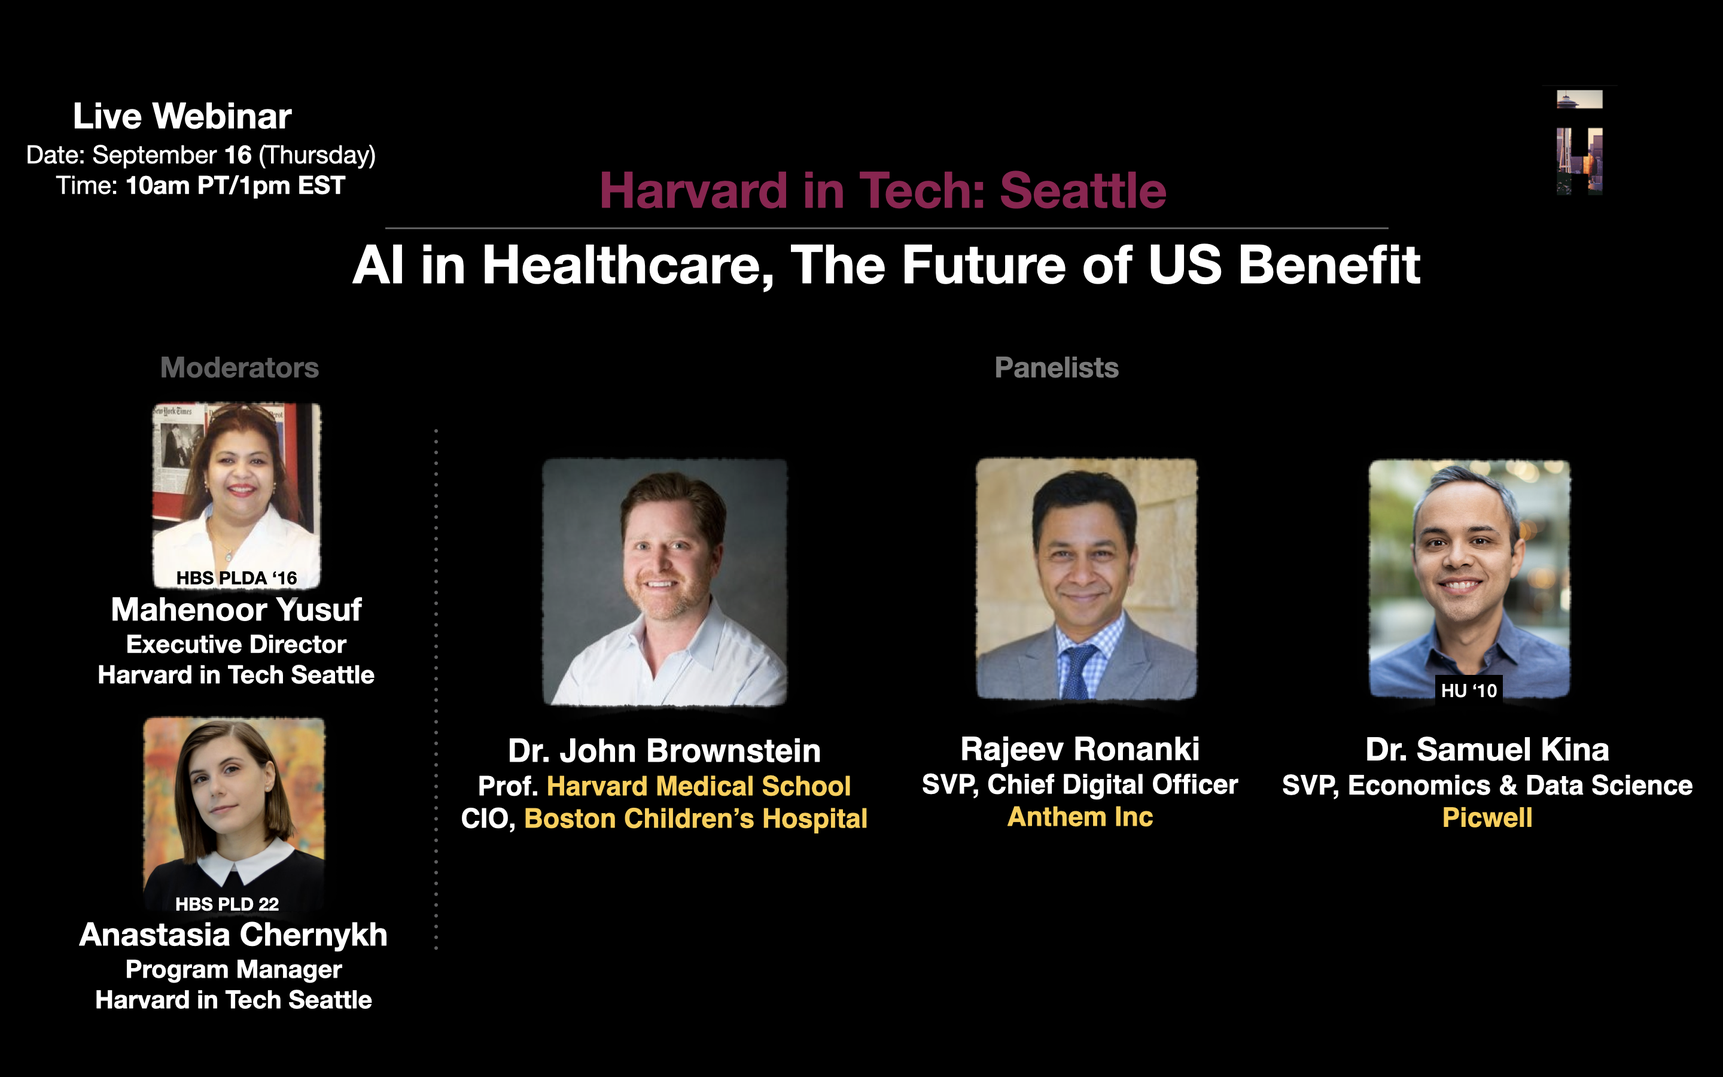
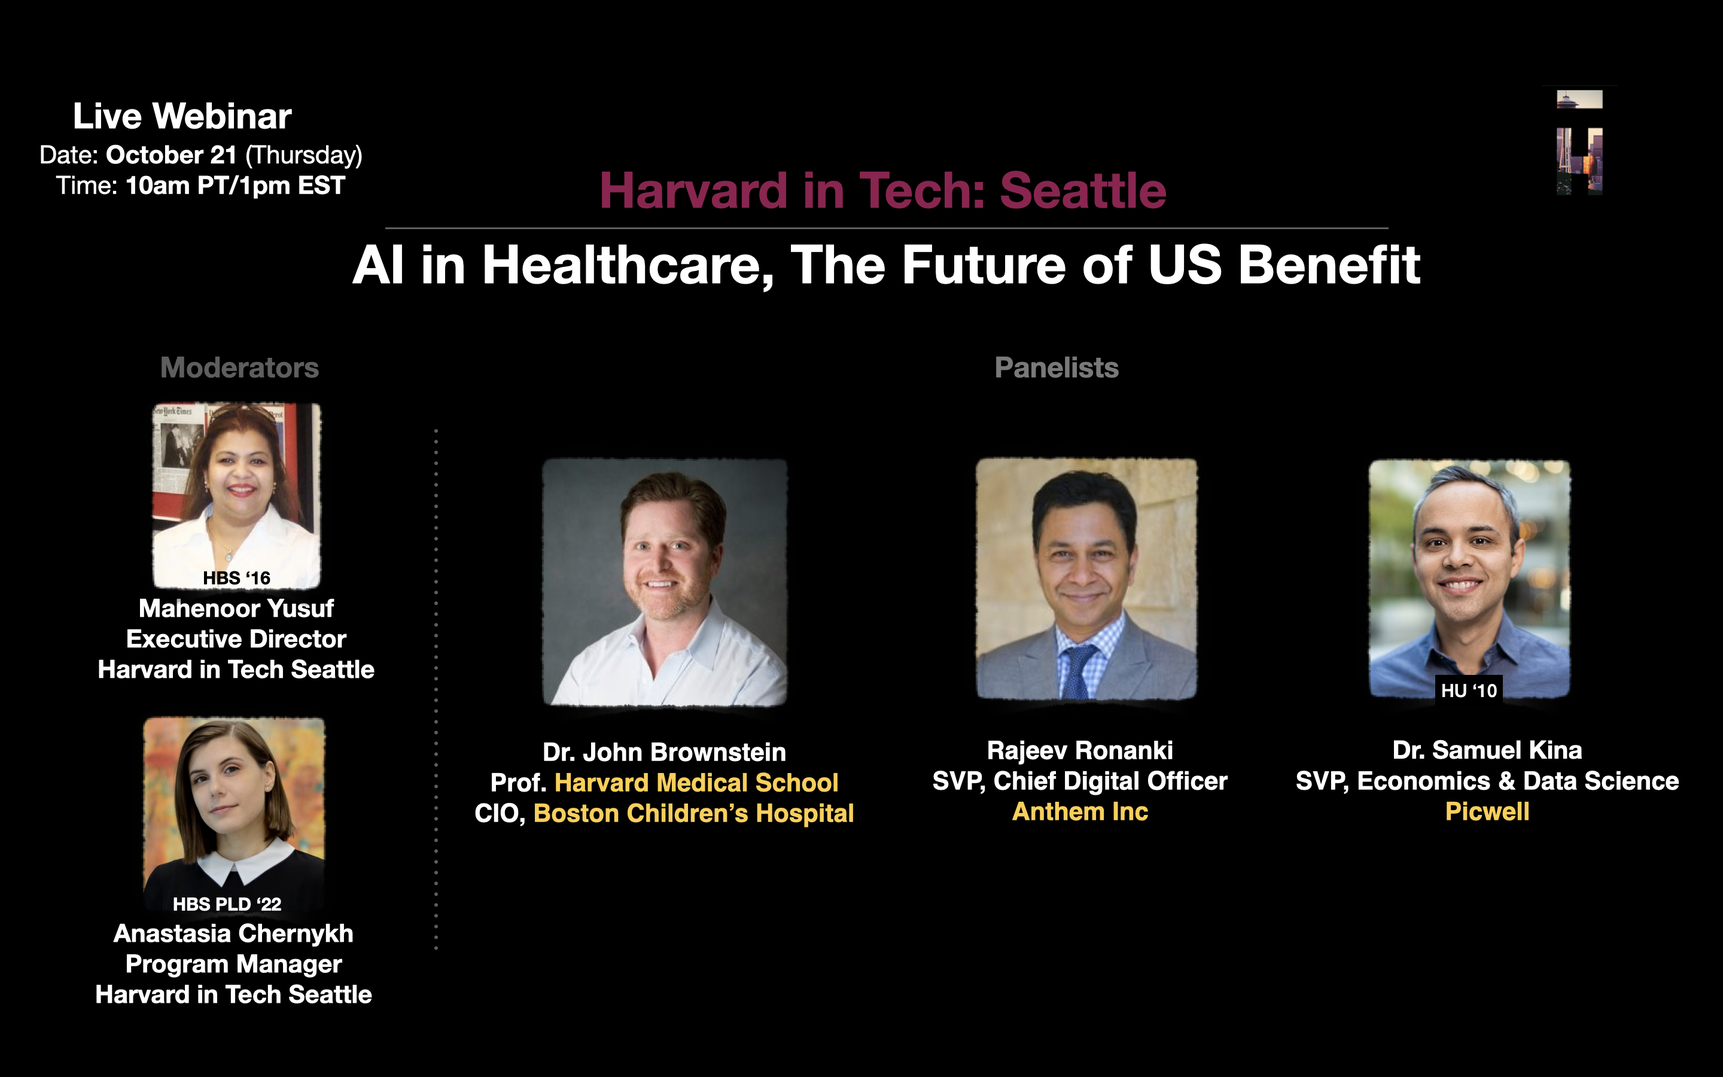
Update website as of Oct. 8, 2021

diff --git a/webinars.html b/webinars.html
@@ -111,6 +111,32 @@
 
         <!-- Latest Webinar -->
         <section class="page-section clearfix">
+
+            <!-- SPACE FOR SALE YOUTUBE VIDEO NOT AVAILABLE YET - Uncomment and add link to data-video when available -->
+            <!-- <div class="container">
+                <div class="intro">
+                    <img class="intro-img img-fluid mb-3 mb-lg-0 rounded" src="assets/webinar/space-economy-flyer.png"
+                        alt="..." />
+                    <div class="intro-text left-0 bg-faded p-5 rounded">
+                        <h2 class="section-heading mb-4">
+                            <span class="section-heading-lower">
+                                <h4>Space for Sale! The Commercialization of the Space Economy</h4>
+                            </span>
+                        </h2>
+                        <p class="mb-3">We explore private vs public sectors investment, Space competitive strategy,
+                            policy & regulation, Space manufacturing, Space living, current technology
+                            limitations to Space habitation and more.</p>
+
+                        <button type="button" class="button" data-toggle="modal" data-target="#spaceForSale"
+                            data-video="https://www.youtube.com/embed/5ORZZVuoQyA">
+                            View Webinar
+                        </button>
+                    </div>
+                </div>
+            </div> -->
+
+
+            <!-- Remove div when Space for Sale Youtube video is available -->
             <div class="container">
                 <div class="intro">
                     <img class="intro-img img-fluid mb-3 mb-lg-0 rounded"
@@ -139,80 +165,89 @@
             <div class="container py-5">
                 <h5>Upcoming Webinars</h5>
 
-                <!-- TODO: Restore when more upcoming webinars are available -->
+                <!-- TODO: Set up carousel per wireframe for multiple upcoming webinars -->
                 <div class="wrapper-grid">
+
+                    <!-- Microsoft Cloud -->
                     <div class="grid-item">
                         <div class="card mx-auto">
-                            <img src="assets/webinar/space-economy-flyer.png" class="card-img-top" alt="...">
+                            <img src="assets/webinar/microsoft-cloud-intelligence-flyer.png" class="card-img-top"
+                                alt="...">
                             <div class="card-body">
-                                <h6 class="card-subtitle mb-2 text-muted">09/30/21 @ 10am PT</h6>
-                                <h5 class="card-title">Space for Sale! The Commercialization of the Space Economy</h5>
+                                <h6 class="card-subtitle mb-2 text-muted">10/13/21 @ 5PM PT</h6>
+                                <h5 class="card-title">Microsoft Cloud Intelligence/AIOps – Infusing AI into Cloud
+                                    Computing</h5>
                                 <p class="card-text">
 
-                                    Please join Harvard in Tech Seattle for a special webinar September 30 (Thursday) @
-                                    10am PT / 1pm ET on “Space for Sale! The Commercialization of the Space Economy”.
-                                    We will explore private vs public sectors investment, Space competitive strategy,
-                                    policy & regulation, Space manufacturing, Space living, current technology
-                                    limitations
-                                    to Space habitation and more. With
-                                    <a href="https://www.linkedin.com/in/ACoAAAAxX3kBfq4tucsWYk50ATTokyK5aqSumGc"
-                                        target="_blank" rel="noopener noreferrer">Roger Hackett</a>.
+                                    Please join Harvard in TechSeattle for a special webinar October 13 (Wednesday) @ 
+                                    5pm PT / 8pm ET on “Microsoft Cloud Intelligence/AIOps – Infusing AI into Cloud
+                                    Computing”.
+
+                                    We will be joined by a distinguished team from Microsoft to explore how Microsoft
+                                    scientists approach cloud computing, the translation of research into product
+                                    strategy, applications of AI in Azure, as well as a discussion on recent
+                                    technologies. This conversation will bring a holistic view, approaching AI from
+                                    research, product strategy, engineering and customer experience perspectives.
 
                                     <br>
                                     <br>Speakers:
 
-                                    <li><a href="https://www.linkedin.com/in/ACoAAAmhB7cBBOIAUnKWh3_kMUElyERN_6kSaIw"
-                                            target="_blank" rel="noopener noreferrer">Dr. Matthew Weinzierl</a> (HU),
-                                        Professor, Harvard Business School</li>
-                                    <li><a href="https://www.linkedin.com/in/ACoAAAhsILkB185bRr8GP-oSOzi8yoIgmV4nuSE"
-                                            target="_blank" rel="noopener noreferrer">Sinéad O'Sullivan</a> (HBS ‘17),
-                                        Strategy & Competitiveness, Harvard Business School</li>
-                                    <li><a href="https://www.linkedin.com/in/ACoAAAlHXKsBqcs3COeqaZvGjzz_mOaiZGfn-UM"
-                                            target="_blank" rel="noopener noreferrer">Kylie Lucas</a> (HBS ), Corporate
-                                        Strategy Lead, BLUE ORIGIN</li>
-                                    <li><a href="https://www.linkedin.com/in/ACoAAAVeJOMBM7icbJVQeV8x8R-rSUkZMkg5Hwk"
-                                            target="_blank" rel="noopener noreferrer">Dr. Benjamin Jenett</a>, Founder,
-                                        Metavoxel Technologies</li>
-                                    <li><a href="https://www.linkedin.com/in/ACoAAAdP0VoBdtzJdY58SVY3sXr8zi2GU_ZEcmw"
-                                            target="_blank" rel="noopener noreferrer">Jeff Matthews</a>, Space Industry
-                                        Lead, Deloitte</li>
+                                    <li><a href="https://www.linkedin.com/in/ACoAAAOCDFoBmYF_zaMRtkLm_4ku0sQ8gRh_D1Y"
+                                            target="_blank" rel="noopener noreferrer">Dr. Dongmei Zhang</a>,
+                                        Distinguished Scientist, Microsoft Research</li>
+                                    <li><a href="https://www.linkedin.com/in/ACoAAACSTj0BHu2TFHINcl8wYsKwjQOilwj8t_0"
+                                            target="_blank" rel="noopener noreferrer">Dr. Marcus Fontoura</a>,
+                                        Technical Fellow & Corporate VP, Microsoft Azure</li>
+                                    <li><a href="https://www.linkedin.com/in/ACoAAABRcK4BFJqxyIzskoG0jnbByKkaDdzpOVU"
+                                            target="_blank" rel="noopener noreferrer">Murali Chintalapati</a>,
+                                        Partner Group Software Engineering Manager, Microsoft Azure</li>
+                                    <li><a href="https://www.linkedin.com/in/ACoAAABM2akB9N4SwdeOfHOSRCVZIb7AhI3A_pw"
+                                            target="_blank" rel="noopener noreferrer">Igal Figlin</a>,
+                                        Partner PM Manager, Microsoft Azure</li>
 
                                 </p>
-                                <a href="https://lnkd.in/gkMbRK3k" target="_blank" rel="noopener noreferrer"
+                                <a href="https://lnkd.in/gF2enqqH" target="_blank" rel="noopener noreferrer"
                                     class="card-link">Webinar Registration</a>
                             </div>
                         </div>
                     </div>
+                </div>
 
-                    <!-- TODO: Restore when more upcoming webinars are available -->
-
-                    <!-- <div class="grid-item">
-                        <div class="card">
-                            <img src="assets/webinar/future-of-digital-assets.png" class="card-img-top" alt="...">
+                <!-- AI in Healthcare -->
+                <div class="wrapper-grid">
+                    <div class="grid-item">
+                        <div class="card mx-auto">
+                            <img src="assets/webinar/ai-in-healthcare.png" class="card-img-top" alt="...">
                             <div class="card-body">
-                                <h6 class="card-subtitle mb-2 text-muted">05/27/20</h6>
-                                <h5 class="card-title">The Future of Digital Assets </h5>
-                                <p class="card-text">We will explore the evolution of digital assets, regulation around
-                                    crypto currency & digital assets, insight on official adoption of cryptocurrency,
-                                    and its global disruption on all financial players and more.</p>
-                                <a href="#" class="card-link">Webinar Registration</a>
+                                <h6 class="card-subtitle mb-2 text-muted">10/21/21 @ 10am PT</h6>
+                                <h5 class="card-title">AI in Healthcare, the Future of US Benefit</h5>
+                                <p class="card-text">
+
+                                    Please join Harvard in Tech Seattle for a special webinar October 21 (Thursday)
+                                    @ 10am PT / 1pm ET on “AI in Healthcare, the Future of US Benefit”. We will explore
+                                    Artificial Intelligence in data ethics, affordable personalized healthcare,
+                                    proactive population health management, disease diagnosis and patient monitoring,
+                                    major hospital challenges, and consumer education.
+
+                                    <br>
+                                    <br>Speakers:
+
+                                    <li><a href="https://www.linkedin.com/in/john-brownstein-611b8658/" target="_blank"
+                                            rel="noopener noreferrer">Dr. John Brownstein</a>,
+                                        Prof. Harvard Medical School; CIO, Boston Children’s Hospital</li>
+                                    <li><a href="https://www.linkedin.com/in/rajeevronanki/" target="_blank"
+                                            rel="noopener noreferrer">Rajeev Ronanki</a>,
+                                        SVP, Chief Digital Officer, Anthem Inc</li>
+                                    <li><a href="https://www.linkedin.com/in/samuel-kina-8975b148/" target="_blank"
+                                            rel="noopener noreferrer">Dr. Samuel Kina</a> (HU ‘10),
+                                        SVP, Economics & Data Science, Picwell</li>
+
+                                </p>
+                                <a href="https://forms.gle/GXdDo7vBb5RHeTdG7" target="_blank" rel="noopener noreferrer"
+                                    class="card-link">Webinar Registration</a>
                             </div>
                         </div>
-                    </div> -->
-
-                    <!-- <div class="grid-item">
-                        <div class="card">
-                            <img src="assets/webinar/future-of-digital-assets.png" class="card-img-top" alt="...">
-                            <div class="card-body">
-                                <h6 class="card-subtitle mb-2 text-muted">05/27/20</h6>
-                                <h5 class="card-title">The Future of Digital Assets </h5>
-                                <p class="card-text">Some quick example text to build on the card title and make up the
-                                    bulk
-                                    of the card's content.</p>
-                                <a href="#" class="card-link">Webinar Registration</a>
-                            </div>
-                        </div>
-                    </div> -->
+                    </div>
                 </div>
             </div>
         </section>
@@ -254,6 +289,26 @@
 
                         <!-- // Recent 3 Webinars // -->
 
+                        <!-- Space for Sale -->
+                        <!-- YOUTUBE VIDEO NOT AVAILABLE YET - Uncomment and add link to data-video when available -->
+                        <!-- <div class="grid-item recent-3 2021">
+                            <div class="card">
+                                <img src="assets/webinar/space-economy-flyer.png" class="card-img-top" alt="...">
+                                <div class="card-body">
+                                    <h6 class="card-subtitle mb-2 text-muted">09/30/21</h6>
+                                    <h5 class="card-title">Space for Sale! The Commercialization of the Space<br> &numsp;</h5>
+                                    <p class="card-text">We explore private vs public sectors investment, Space competitive strategy,
+                                        policy & regulation, Space manufacturing, Space living, current technology
+                                        limitations to Space habitation and more.</p>
+                                    <button type="button" class="read-more-btn btn-link" data-toggle="modal"
+                                        data-target="#spaceForSale"
+                                        data-video=""> 
+                                        View Webinar
+                                    </button>
+                                </div>
+                            </div>
+                        </div> -->
+
                         <!-- Digital Assets -->
                         <div class="grid-item recent-3 2021">
                             <div class="card">
@@ -294,6 +349,7 @@
                         </div>
 
                         <!-- Tech Innovation: US Defense -->
+                        <!-- Move webinar to rest of webinars section when Space for Sale is added -->
                         <div class="grid-item recent-3 2020">
                             <div class="card">
                                 <img src="assets/webinar/tech-in-us-defense-flyer.png" class="card-img-top" alt="...">
@@ -569,6 +625,82 @@
 
 
         <!-- MODALS -->
+
+        <!-- Space for sale -->
+        <div class="modal fade" id="spaceForSale" tabindex="-1" role="dialog">
+            <div class="modal-dialog modal-dialog-centered modal-lg" role="document">
+                <div class="modal-content">
+                    <div class="modal-header">
+                        Harvard in Tech Seattle Webinar
+                        <button type="button" class="close" data-dismiss="modal">&times;</button>
+                    </div>
+                    <div class="modal-body p-0">
+                        <div class="embed-responsive embed-responsive-16by9">
+                            <iframe class="embed-responsive-item" allowfullscreen></iframe>
+                        </div>
+                        <div class="modal-description px-3">
+                            <h5 class="py-3">
+                                Harvard in Tech Seattle presents a special webinar on “Space for Sale! The
+                                Commercialization of the Space Economy”.
+                            </h5>
+
+                            <p>We explore the evolution of digital assets, regulation around crypto currency &
+                                digital assets, insight on official adoption of cryptocurrency, and its global
+                                disruption on all financial players and more.
+                            </p>
+
+                            <p>
+                                Panelists:
+                                <br>Dr. Matthew Weinzierl (HU), Professor, Harvard Business School
+                                <br>Sinéad O'Sullivan(HBS ‘17), Strategy & Competitiveness, Harvard Business School
+                                <br>Kylie Lucas (HBS), Corporate Strategy Lead, BLUE ORIGIN
+                                <br>Dr. Benjamin Jenett, Founder, Metavoxel Technologies
+                                <br>Jeff Matthews, Space Industry Lead, Deloitte
+                            </p>
+
+                            <p>
+                                Moderators:
+                                <br>Mahenoor Yusuf, Chair, Harvard in Tech Seattle
+                                <br>Roger Hackett, Founder Ryan and Robbie LLC
+
+                            </p>
+
+                            <p> Key Takeaways: </p>
+
+                            <ol>
+                                <li>
+                                    China is in the forefront of digital currency Renminbi (RMB) electronic payment
+                                    at world level. Their goal is to maintain control of money supply & prevent foreign
+                                    exchange risks. This official adoption of cryptocurrency in China is with the aim to
+                                    gradually reduce the dependency of the US dollar.
+                                </li>
+                                <li>
+                                    The decision to move the U.S to digital currency five to seven years from now is
+                                    political but will not replace the paper dollar. It wolid be a mix adoption.
+                                </li>
+                                <li>
+                                    The free and non-fungible nature of bitcoin’s energy consumption makes it greener
+                                    and more sustainable than other mixed sources, while it can generate money and
+                                    security.
+                                </li>
+                                <li>
+                                    Crypto and digital assets offer permission less, cashless, and yield, which is a
+                                    payment revolution for value transfer.
+                                </li>
+                                <li>
+                                    To invest in Crypto, one should contribute a small percentage of their total
+                                    investment, be prepared to lose a significant part of it, stay for the long-term,
+                                    and have the same investment vision as a traditional investment.
+                                </li>
+                            </ol>
+
+                        </div>
+                        </p>
+                    </div>
+
+                </div>
+            </div>
+        </div>
 
         <!-- Digital assets -->
         <div class="modal fade" id="digitalAsset" tabindex="-1" role="dialog">

diff --git a/team.html b/team.html
@@ -884,16 +884,35 @@
                         <div class="column-float">
                             <div class="card">
                                 <img class="card-image"
-                                    src="assets/team/Vara Prasad.png"
+                                    src="assets/team/Anju Mary Peter.jpg"
                                     alt="Headshot">
                                 <div class="card-text">
-                                    <h2>Vara Prasad Pendima</h2>
+                                    <h2>Anju Mary Peter</h2>
                                     <p class="hbs"></p>
-                                    <p>Volunteer Coordinator</p>
-                                    <p>Volunteer Support Team</p>
+                                    <p>Associate Product Manager</p>
+                                    <p>Call For Action Team</p>
                                 </div>
                                 <div class="container linkedIn-pad">
-                                    <p><a class="link" href="https://www.linkedin.com/in/vara-prasad-b3352216/"
+                                    <p><a class="link" href="https://www.linkedin.com/in/anju-maryy-peter"
+                                            target="_blank">LinkedIn</a></b>
+                                    </p>
+                                </div>
+                            </div>
+                        </div>
+
+                        <div class="column-float">
+                            <div class="card">
+                                <img class="card-image"
+                                    src="assets/team/Reeda Shimaz.jpg"
+                                    alt="Headshot">
+                                <div class="card-text">
+                                    <h2>Reeda Shimaz Huda</h2>
+                                    <p class="hbs"></p>
+                                    <p>Outreach Coordinator</p>
+                                    <p>Digital Marketing Team</p>
+                                </div>
+                                <div class="container linkedIn-pad">
+                                    <p><a class="link" href="https://www.linkedin.com/in/reeda-shimaz-huda-257b381b6"
                                             target="_blank">LinkedIn</a></b>
                                     </p>
                                 </div>

diff --git a/js/webinar.js b/js/webinar.js
@@ -62,9 +62,9 @@ $(function () {
 
     // == Read More Modals ==
 
-    // Digital assets
+    // Space for sale
     // Set iframe attributes when the show instance method is called
-    $("#digitalAsset").on("show.bs.modal", function (event) {
+    $("#spaceForSale").on("show.bs.modal", function (event) {
         let button = $(event.relatedTarget); // Button that triggered the modal
         let url = button.data("video"); // Extract url from data-video attribute
 
@@ -75,6 +75,21 @@ $(function () {
     });
 
     // Remove iframe attributes when the modal has finished being hidden from the user
+    $("#spaceForSale").on("hidden.bs.modal", function () {
+        $("#spaceForSale iframe").removeAttr("src allow");
+    });
+
+    // Digital assets
+    $("#digitalAsset").on("show.bs.modal", function (event) {
+        let button = $(event.relatedTarget); // Button that triggered the modal
+        let url = button.data("video"); // Extract url from data-video attribute
+
+        $(this).find("iframe").attr({
+            src: url,
+            allow: "accelerometer; autoplay; encrypted-media; gyroscope; picture-in-picture"
+        });
+    });
+
     $("#digitalAsset").on("hidden.bs.modal", function () {
         $("#digitalAsset iframe").removeAttr("src allow");
     });
